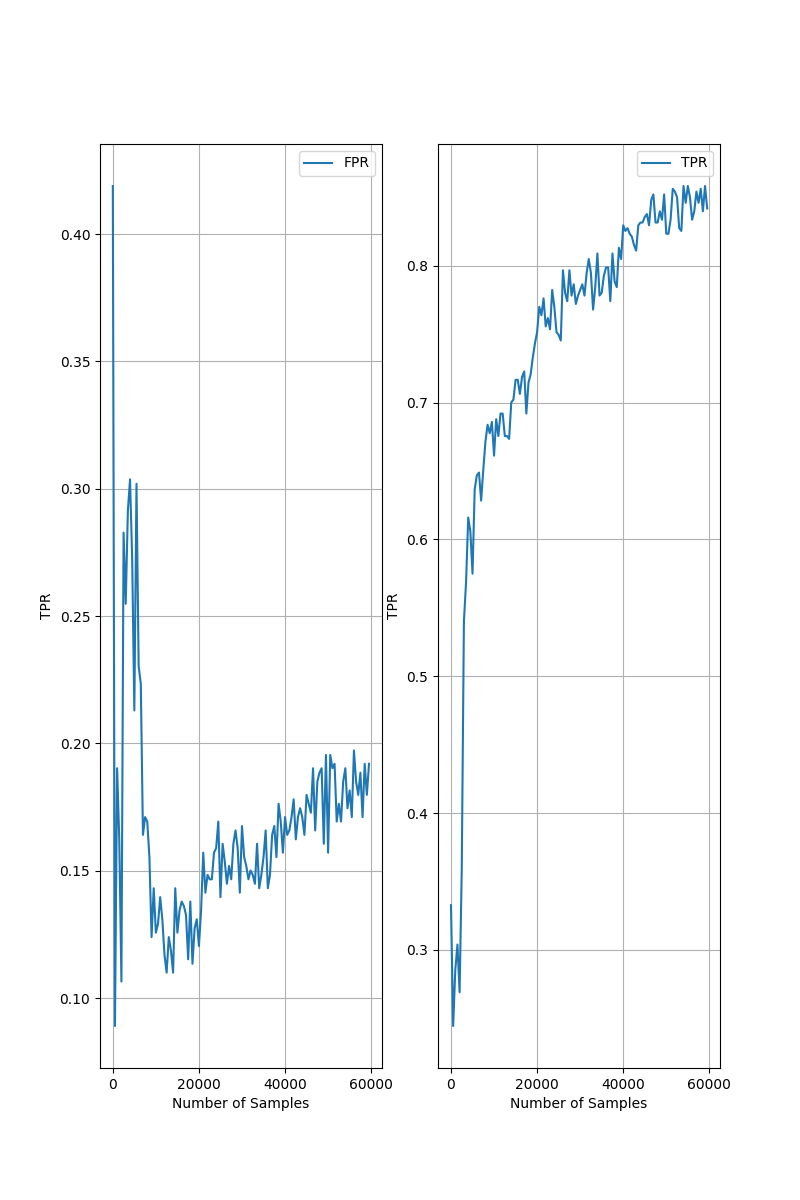
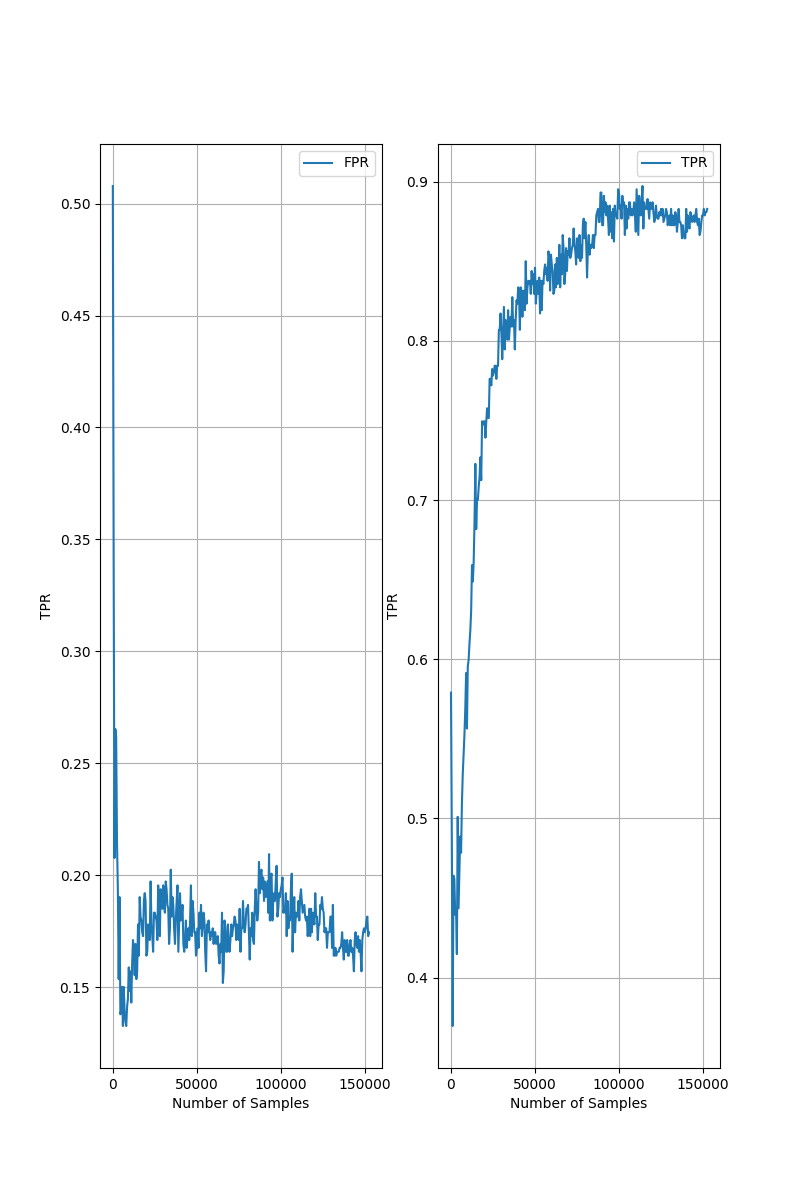
added mc test for active learning

diff --git a/main_active_learning_mc.py b/main_active_learning_mc.py
@@ -1,0 +1,75 @@
+from tkinter.tix import Tree
+import pandas as pd
+from sklearn.model_selection import train_test_split, GridSearchCV
+from sklearn.metrics import confusion_matrix
+from sklearn.preprocessing import StandardScaler
+import matplotlib.pyplot as plt
+import numpy as np
+
+from tree_olnp.tree_olnp import tree_olnp
+
+# Target False Alarm
+# NP framework aims to maximize the detection power while upper bounding the false alarm rate
+# target false alarm rate should be determined by the user
+target_FPR = 0.1
+MC = 10
+
+# every 5000 sample, calculate TPR and FPR of the transient model using test set
+# this application is specific to active learning to better show performance of the model
+test_freq = 1000
+
+# main 
+# np-nn works for 1,-1 classification
+# we expect data to be in tabular form with the latest column as target (check ./data/banana.csv)
+data = pd.read_csv('./data/banana.csv')
+X = data.iloc[:,:-1].values
+y = data.iloc[:,-1].values
+
+# train test split
+X_train, X_test, y_train, y_test = train_test_split(X, y, test_size=0.2, random_state=0)
+
+# normalization
+sc = StandardScaler()
+X_train = sc.fit_transform(X_train)
+X_test = sc.transform (X_test)
+
+# get n_samples
+n_samples =  int(1.1*max(150e3, X_train.shape[0])/test_freq)
+
+# create datasets
+indices = np.empty((MC, n_samples))
+fpr = np.empty((MC, n_samples))
+tpr = np.empty((MC, n_samples))
+for i in range(0, MC):
+    # print progress
+    print('MC: {}'.format(i+1))
+
+    # classifier definition
+    # Note that cross validation is not applied here, it will be implemented in the future versions
+    TreeOlnp = tree_olnp(
+        tfpr = target_FPR, 
+        projection_type = 'iterative_PCA', 
+        tree_depth=5, 
+        active_learning=False, 
+        exploration_prob=0.3, 
+        uncertainity_threshold=0.95)
+
+    # training with test
+    TreeOlnp.fit(X_train, y_train, X_test=X_test, y_test=y_test, test_freq=test_freq)
+
+    # get results
+    indices_ = TreeOlnp.test_array_indices_
+    fpr_ = TreeOlnp.fpr_test_array_
+    tpr_ = TreeOlnp.tpr_test_array_
+
+    # train size
+    train_size = indices_.shape[0]
+
+    # save the output
+    indices[i, :train_size] = indices_
+    fpr[i, :train_size] = fpr_
+    tpr[i, :train_size] = tpr_
+
+np.savetxt("./output/active/random_indices.csv", indices, delimiter=",")
+np.savetxt("./output/active/random_fpr.csv", fpr, delimiter=",")
+np.savetxt("./output/active/random_tpr.csv", tpr, delimiter=",")

diff --git a/main_active_learning.py b/main_active_learning.py
@@ -37,7 +37,7 @@ TreeOlnp = tree_olnp(
     tfpr = target_FPR, 
     projection_type = 'iterative_PCA', 
     tree_depth=5, 
-    active_learning=True, 
+    active_learning=False, 
     exploration_prob=0.3, 
     uncertainity_threshold=0.95)
 
